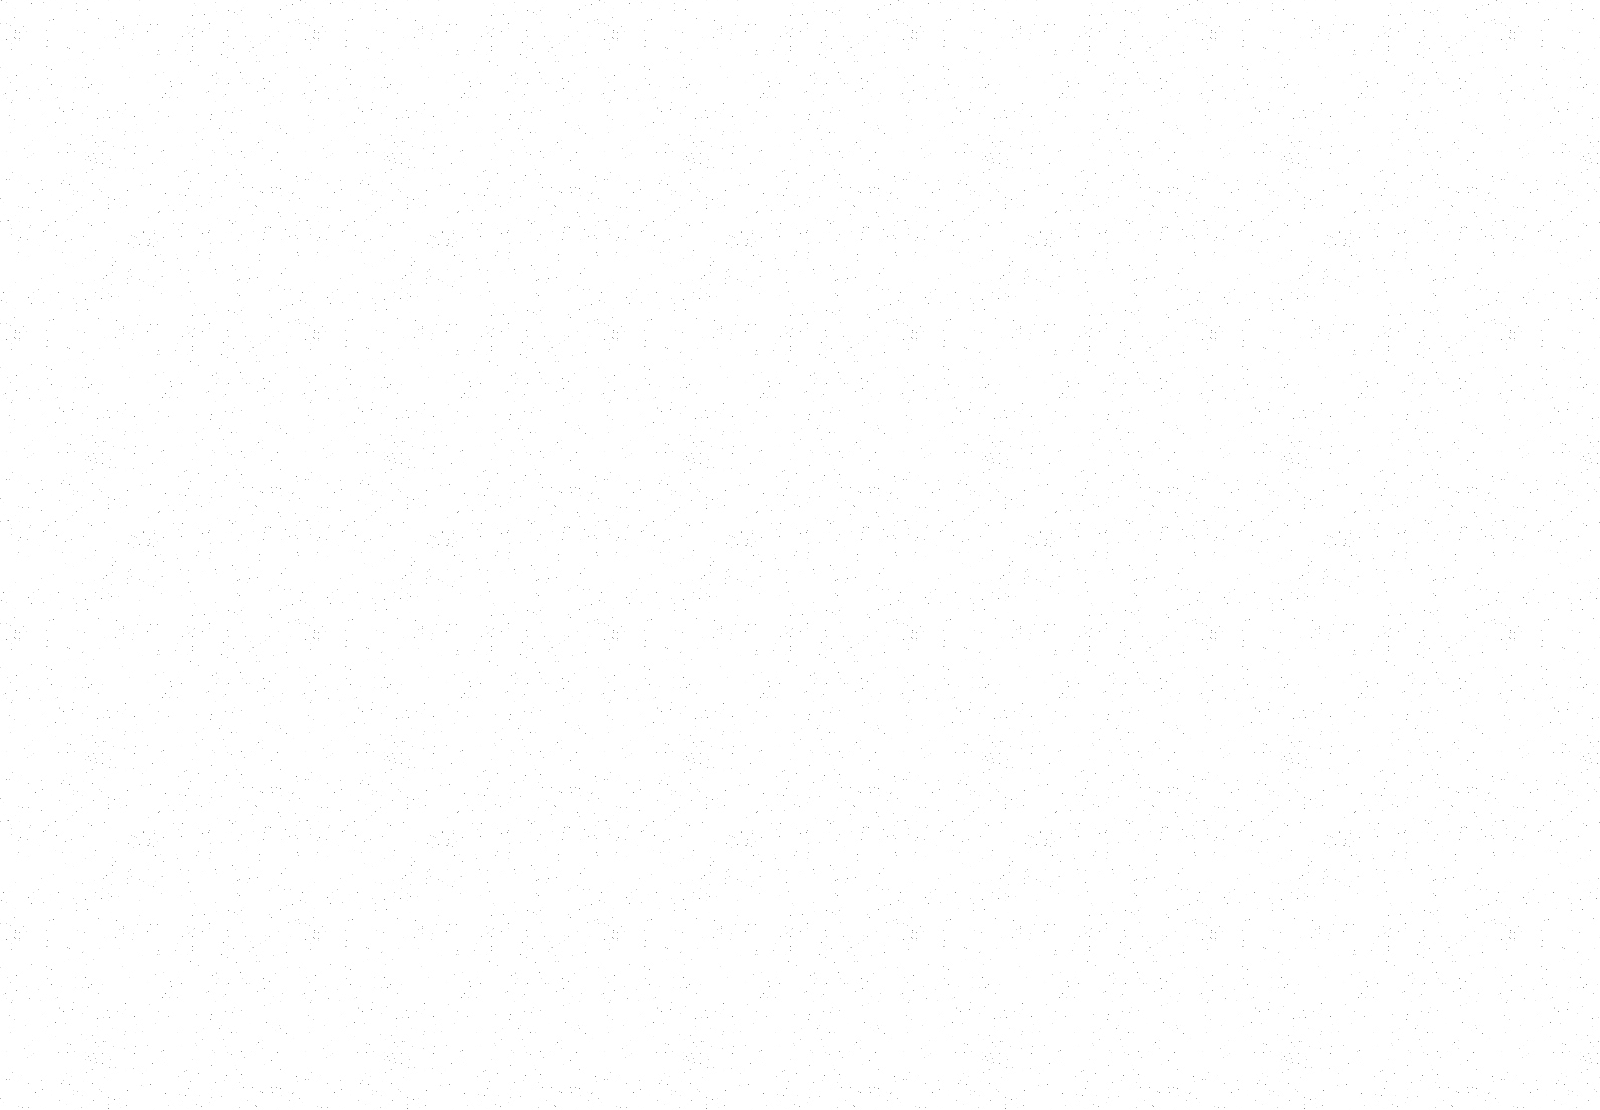
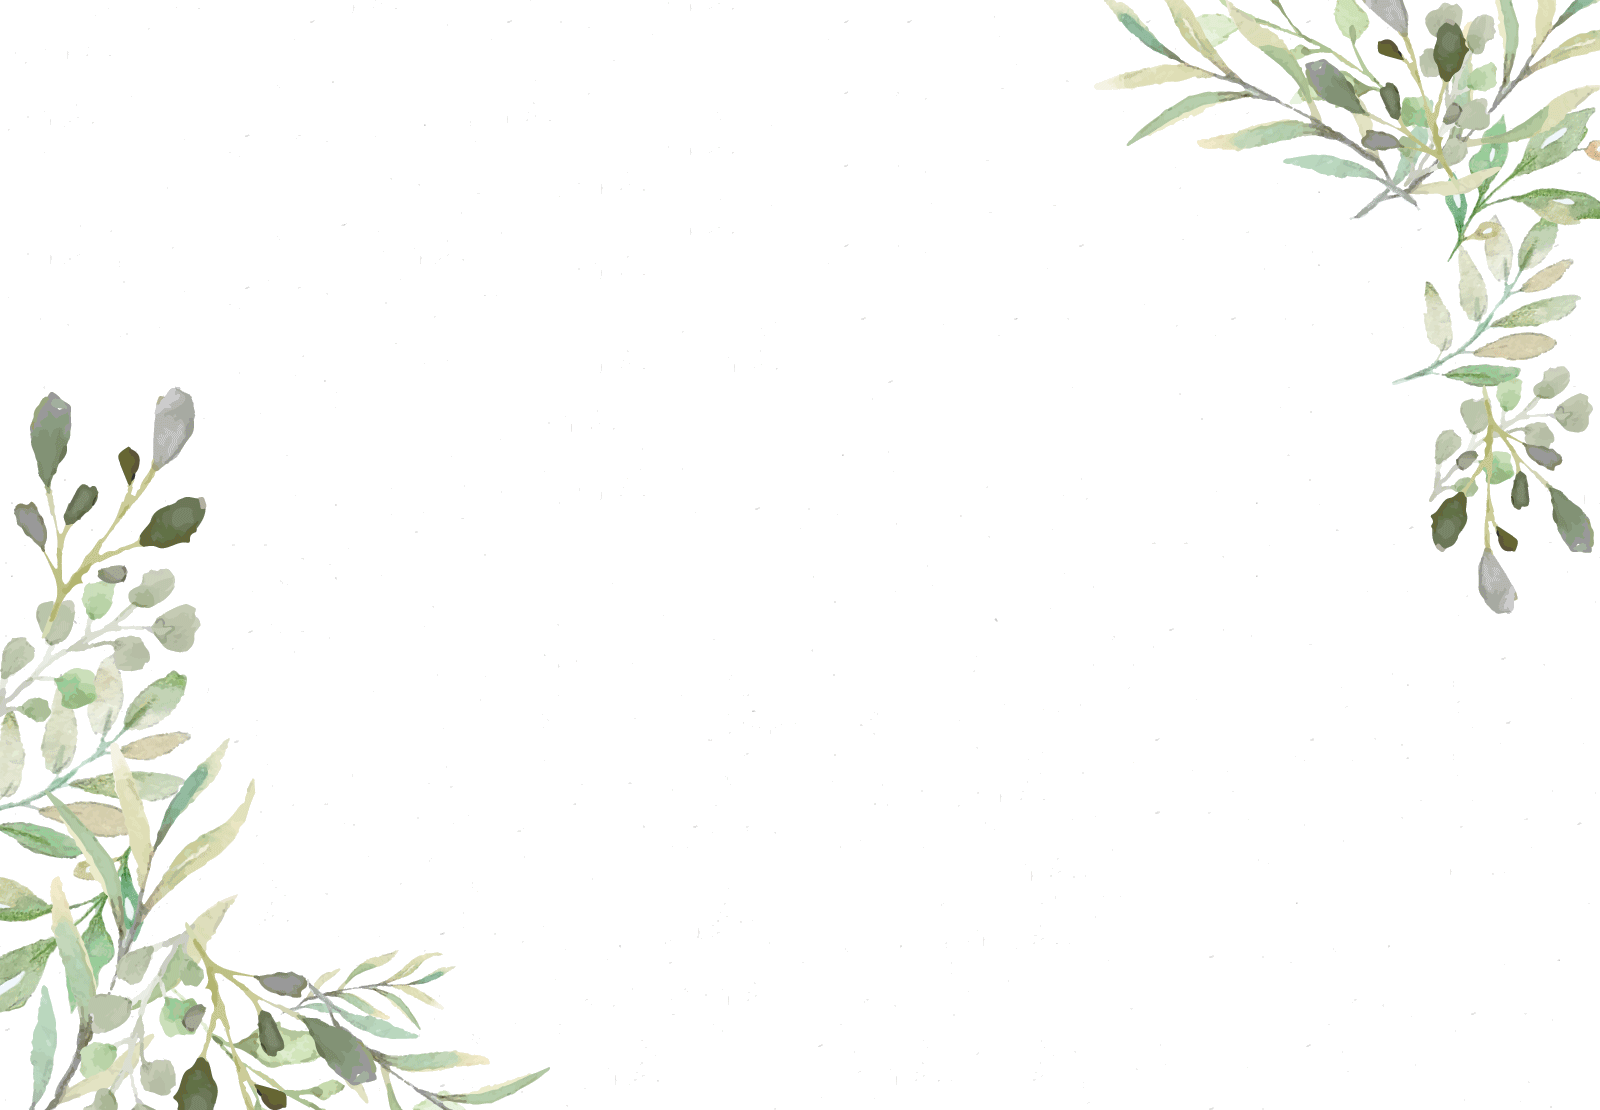
Add files via upload

Changed region(s): [[0.0, 0.3369, 0.3438, 1.0], [0.6875, 0.0, 1.0, 0.5514]]

diff --git a/index.html b/index.html
@@ -406,7 +406,7 @@
 <div class="about-sec" id="about-sec" style="background: url('wedding/img/speaker_bg.png');">
     <div class="container">
         <div class="row">
-            <div class="col-12 col-md-6 text-center about-self">
+            <div class="col-12 col-md-6 text-center about-self" style="padding-right:50px;padding-left:50px;">
                 <div class="about-heading">
                     <span class="heading-subtitle">- LA NOVIA -</span>
                     <h2 class="heading-title">Flor Alejandra Medrano</h2>
@@ -423,7 +423,7 @@
                 </div>
 
             </div>
-            <div class="col-12 col-md-6 text-center about-self">
+            <div class="col-12 col-md-6 text-center about-self" style="padding-right:50px;padding-left:50px;">
                 <div class="about-heading">
                     <span class="heading-subtitle">- EL NOVIO -</span>
                     <h2 class="heading-title">Álvaro Campanur</h2>
@@ -573,7 +573,7 @@
             </div>
 			<div class="item speaker-info">
                 <div class="image-holder">
-                    <img src="wedding/img/t2.jpg" alt="speaker">
+                    <img src="wedding/img/t7.jpg" alt="speaker">
                     <div class="overlay d-flex justify-content-center align-items-center">
                         <div class="speaker-links">
                             <ul>
@@ -621,7 +621,7 @@
             </div>
             <div class="item speaker-info">
                 <div class="image-holder">
-                    <img src="wedding/img/t2.jpg" alt="speaker">
+                    <img src="wedding/img/t8.jpg" alt="speaker">
                     <div class="overlay d-flex justify-content-center align-items-center">
                         <div class="speaker-links">
                             <ul>
@@ -632,7 +632,7 @@
                         </div>
                     </div>
                 </div>
-                <h4 class="speaker-name">Marco Valdivia</h4>
+                <h4 class="speaker-name">Marcos Valdivia</h4>
                 <p class="speaker-detail">Caballero</p>
             </div>
 			<div class="item speaker-info">
@@ -868,28 +868,28 @@
                         <div class="event-details">
                             <h4 class="event-heading">Ceremonia Civil</h4>
                             <p class="text-des">Esta se llevará a cabo en el Campestre "El Madroño" en el patio de ceremonias.</p>
-                            <div class="event-time">Viernes 23, 2026 <span> a las 6pm</span> </div>
+                            <div class="event-time">Viernes 23, 2026 <span></span> </div>
                         </div>
                     </li>
                     <li class="timeline-block inverse-timeline wow fadeInRight" data-wow-delay=".2s">
                         <div class="event-details">
-                            <h4 class="event-heading">Lunch Time</h4>
-                            <p class="text-des">Lorem Ipsum is simply dummy text of the printing and that typesetting Donec pulvinar mi sit.</p>
-                            <div class="event-time">Jan 22, 2020 <span> at  10pm</span></div>
+                            <h4 class="event-heading">Recepción y Bienvenida</h4>
+                            <p class="text-des">Si deseas disfrutar del lugar, puedes llegar incluso un poco antes.</p>
+                            <div class="event-time">Viernes<span> Hora: 6:00 pm</span></div>
                         </div>
                     </li>
                     <li class="timeline-block inverse-timeline wow fadeInRight" data-wow-delay=".6s">
                         <div class="event-details">
-                            <h4 class="event-heading">Party with Music</h4>
-                            <p class="text-des">Lorem Ipsum is simply dummy text of the printing and that typesetting Donec pulvinar mi sit.</p>
-                            <div class="event-time">Jan 22, 2020 <span> at  1am</span></div>
+                            <h4 class="event-heading">Fiesta Purépecha</h4>
+                            <p class="text-des">Por último tendremos una respresentación de algunas de las costumbres culturales de la región.</p>
+                            <div class="event-time">Viernes <span> Hora: 7:30 pm</span></div>
                         </div>
                     </li>
                     <li class="timeline-block simple-timeline wow fadeInLeft" data-wow-delay=".4s">
                         <div class="event-details">
-                            <h4 class="event-heading">Cake Cutting</h4>
-                            <p class="text-des">Lorem Ipsum is simply dummy text of the printing and that typesetting Donec pulvinar mi sit.</p>
-                            <div class="event-time">May 22, 2020 <span> at  6pm</span></div>
+                            <h4 class="event-heading">Casamiento</h4>
+                            <p class="text-des">Se llevará a cabo la boda civil por el Juez de la comunidad.</p>
+                            <div class="event-time">Viernes <span> Hora: 7:10 pm</span></div>
                         </div>
                     </li>
                 </ul>
@@ -1081,7 +1081,7 @@
 							</p>
                     </div>
                     <div class="text-center" style="margin-top: 18px;">
-                        <a href="javascript:void(0)" class="btn-setting color-black btn-hvr-up btn-blue btn-hvr-white">learn more</a>
+                        <a href="https://wa.link/wzkut7" class="btn-setting color-black btn-hvr-up btn-blue btn-hvr-white" target="_blank">Más Información</a>
                     </div>
                 </div>
             </div>
@@ -1111,7 +1111,7 @@ Día 2: desayuno, comida y cena)
 							</p>
                     </div>
                     <div class="text-center" style="margin-top: 18px;">
-                        <a href="javascript:void(0)" class="btn-setting color-black btn-hvr-up btn-yellow btn-hvr-white">learn more</a>
+                        <a href="https://wa.link/uwusr4" class="btn-setting color-black btn-hvr-up btn-yellow btn-hvr-white" target="_blank">Más Información</a>
                     </div>
 
                 </div>
@@ -1133,7 +1133,7 @@ Una sola noche
 							</p>
                     </div>
                     <div class="text-center" style="margin-top: 18px;">
-                        <a href="javascript:void(0)" class="btn-setting color-black btn-hvr-up btn-pink btn-hvr-white">learn more</a>
+                        <a href="https://wa.link/owrpmq" class="btn-setting color-black btn-hvr-up btn-pink btn-hvr-white" target="_blank">Más Información</a>
                     </div>
                 </div>
             </div>
@@ -1167,8 +1167,8 @@ Una sola noche
                             <div class="media">
                                 <i class="las la-phone"></i>
                                 <div class="media-body">
-                                    <h5 class="mt-0">TEL. CONTACTO</h5>
-                                    <p>443 369 3501</p>
+                                    <h5 class="mt-0">443 369 3501</h5>
+                                    <p>TELÉFONO DE CONTACTO</p>
                                 </div>
                             </div>
                         </div>
@@ -1187,6 +1187,10 @@ Una sola noche
                     </div>
                 </div>
             </div>
+			<div style="width: 100%; background-color: #525e2c; font-family: archivo-expanded; ">
+					<div class="text-center" style="margin: 38px 10px 30px 10px;">
+                        <a href="https://forms.gle/979U1pyz6VzwcNJm9" class="btn-setting color-black btn-hvr-up btn-pink btn-hvr-white" style="color: #ffffff; font-weight: 700" target="_blank">CONFIRMAR MI ASISTENCIA</a>
+                    </div></div>
 
             <div class="col-12">
 				<iframe src="https://www.google.com/maps/embed?pb=!1m18!1m12!1m3!1d30056.725702809366!2d-101.99977016404686!3d19.666134935030154!2m3!1f0!2f0!3f0!3m2!1i1024!2i768!4f13.1!3m3!1m2!1s0x842dd9660b2c0f2d%3A0xa7e225ef64443a2c!2sEl%20Madro%C3%B1o!5e0!3m2!1ses-419!2smx!4v1779478409140!5m2!1ses-419!2smx" width="600" height="450" style="border:0;" allowfullscreen="" loading="lazy" referrerpolicy="no-referrer-when-downgrade"></iframe>
@@ -1195,6 +1199,7 @@ Una sola noche
         </div>
 </div>
 <!--contact us sec end-->
+	
 
 
 <!--footer sec start-->

diff --git a/wedding/css/style.css b/wedding/css/style.css
@@ -1938,7 +1938,7 @@ header a.logo img {
     background-color: transparent;
     border-radius: 0;
     color: white;
-    padding:30px;
+    padding:46px;
     font-family: 'archivo-expanded', sans-serif;
 
 }
